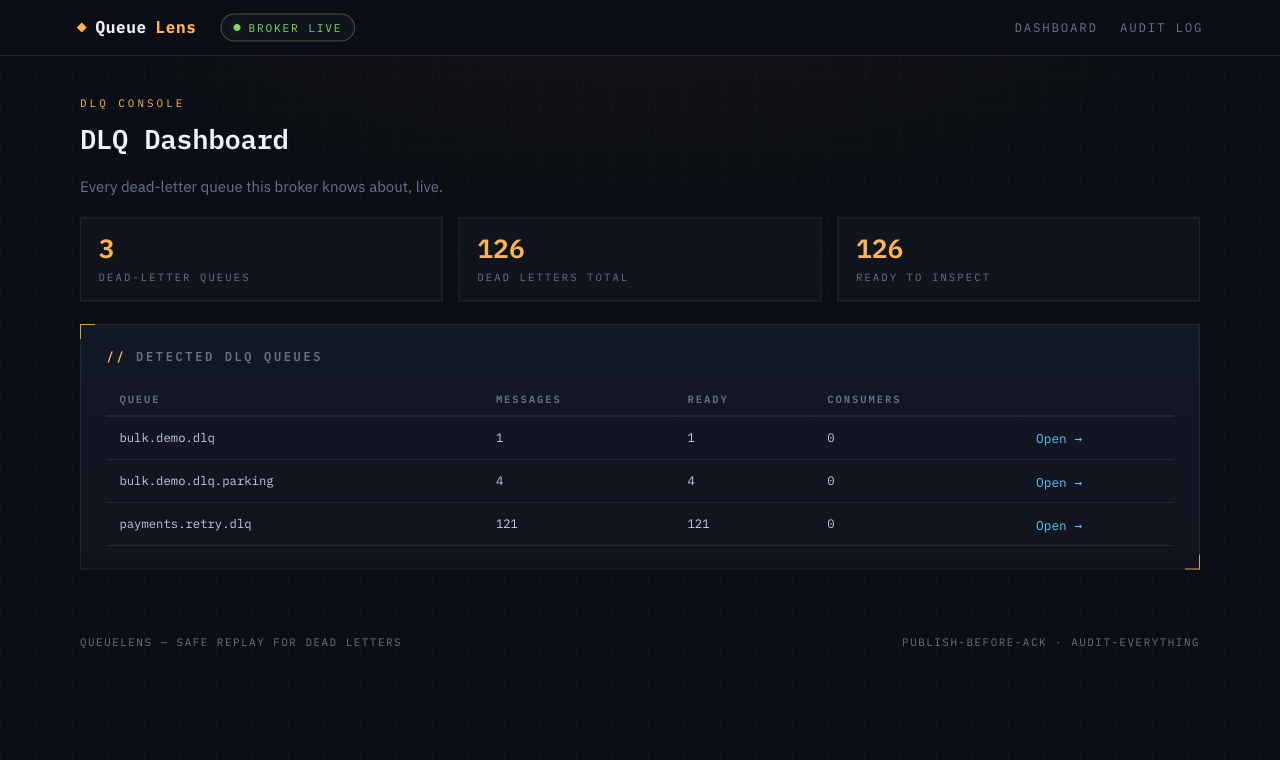
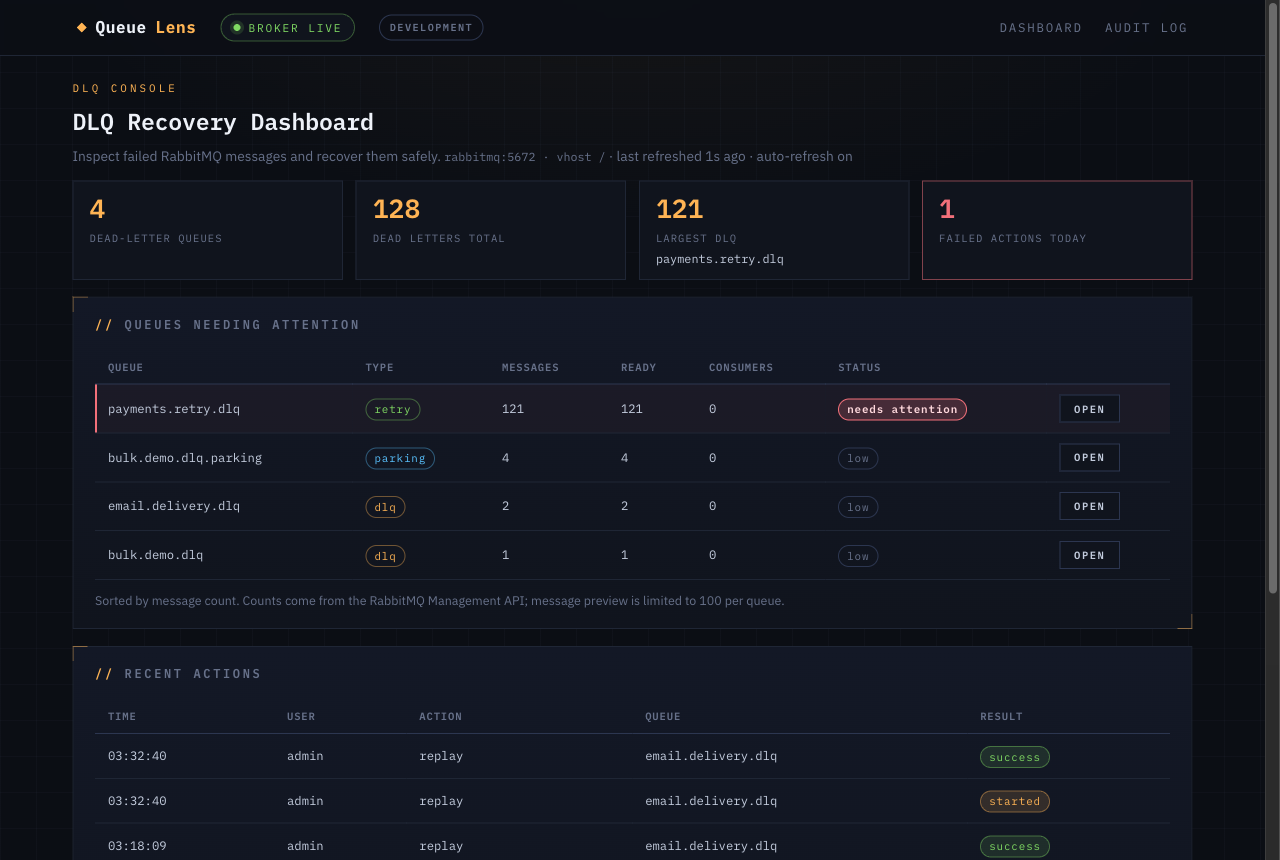
design: operational dashboard — risk-first, status-driven
The dashboard now answers an operator's first questions at a glance:

- Queues sorted by message count descending — the riskiest DLQ is row one
- Queue type badges (dlq / parking / retry) so parking lots and retry
  queues aren't mistaken for incident queues; parking-suffix queues are
  now also detected
- Severity column (needs attention / warning / low / empty) with a red
  rail on attention rows
- Stat cards reworked: Largest DLQ (name + count) and Failed Actions
  Today (red when nonzero) join queue/message totals
- Broker host + vhost, last-refreshed ticker, and 30s auto-refresh in
  the header; environment badge (LOCAL/STAGING/PRODUCTION, red for
  production) in the topbar on every page
- Recent Actions section surfaces the audit trail on the dashboard,
  resilient to an unavailable audit store
- Clear Open buttons plus fully clickable rows
- Safety microcopy on the message actions card; Retry button on error
  pages; richer empty state; preview-limit note under the table
- Density pass: tighter spacing, reduced letter-spacing, subtler corner
  brackets, quieter footer

Queue API dicts gain kind and severity fields; audit repository gains
a count(result, since) method.

diff --git a/app/web/static/styles.css b/app/web/static/styles.css
@@ -549,3 +549,69 @@ input::placeholder { color: var(--muted); }
   .card { animation: none; }
   .broker-status i { animation: none; }
 }
+
+/* ---------- operational density pass ---------- */
+
+.container { margin-top: 1.5rem; }
+.card { padding: 1.1rem 1.35rem; margin: 1.05rem 0; }
+.card::before, .card::after { opacity: 0.5; }
+h1 { font-size: 1.45rem; }
+.subtitle { margin: 0 0 0.4rem; font-size: 0.86rem; }
+.stats { margin: 0.9rem 0 0.1rem; gap: 0.8rem; }
+.stat { padding: 0.7rem 1rem; }
+.stat span { letter-spacing: 0.1em; }
+.stat i {
+  display: block;
+  font-style: normal;
+  font-family: var(--mono);
+  font-size: 0.74rem;
+  color: var(--text);
+  margin-top: 0.1rem;
+  word-break: break-all;
+}
+.stat-alert { border-color: rgba(242, 112, 122, 0.5); }
+.stat-alert b { color: var(--red); }
+th { letter-spacing: 0.08em; }
+.small { font-size: 0.78rem; margin: 0.7rem 0 0; }
+.plain-link { color: var(--cyan); text-decoration: none; }
+.plain-link:hover { text-decoration: underline; }
+
+/* environment badge */
+.env-badge {
+  font-family: var(--mono);
+  font-size: 0.64rem;
+  font-weight: 600;
+  letter-spacing: 0.14em;
+  padding: 0.24rem 0.6rem;
+  border-radius: 999px;
+  border: 1px solid var(--line-bright);
+  color: var(--muted);
+  white-space: nowrap;
+}
+.env-badge.env-production {
+  color: #ffd9dd;
+  background: rgba(242, 112, 122, 0.18);
+  border-color: var(--red);
+  box-shadow: 0 0 12px rgba(242, 112, 122, 0.25);
+}
+.env-badge.env-staging { color: var(--amber); border-color: rgba(255, 180, 84, 0.5); }
+
+/* queue type + severity badges */
+.badge.k-dlq { color: var(--amber); border-color: rgba(255, 180, 84, 0.4); }
+.badge.k-parking { color: var(--cyan); border-color: rgba(89, 194, 255, 0.4); }
+.badge.k-retry { color: var(--green); border-color: rgba(127, 217, 98, 0.4); }
+.badge.s-attention { color: #ffd9dd; background: rgba(242, 112, 122, 0.2); border-color: var(--red); font-weight: 600; }
+.badge.s-warning { color: var(--amber); background: var(--amber-soft); border-color: rgba(255, 180, 84, 0.45); }
+.badge.s-low { color: var(--muted); }
+.badge.s-empty { color: var(--muted); opacity: 0.7; }
+
+/* rows that navigate */
+tr[data-href] { cursor: pointer; }
+.button.row-open { padding: 0.3rem 0.85rem; font-size: 0.66rem; }
+tbody tr:hover .row-open { border-color: var(--amber); color: var(--amber); }
+
+/* attention rows glow */
+tbody tr:has(.s-attention) { background: rgba(242, 112, 122, 0.04); box-shadow: inset 2px 0 0 var(--red); }
+
+/* quieter footer */
+.footer { font-size: 0.6rem; opacity: 0.55; margin-bottom: 1.2rem; }

diff --git a/app/web/templates/dashboard.html b/app/web/templates/dashboard.html
@@ -2,20 +2,56 @@
 {% block title %}Dashboard · QueueLens{% endblock %}
 {% block content %}
 <p class="overline">DLQ Console</p>
-<h1>DLQ Dashboard</h1>
-<p class="muted">Every dead-letter queue this broker knows about, live.</p>
+<h1>DLQ Recovery Dashboard</h1>
+<p class="muted subtitle">Inspect failed RabbitMQ messages and recover them safely.
+  <span class="mono">{{ broker }}</span> ·
+  <span id="refresh-status">last refreshed just now</span> · auto-refresh on</p>
 {% if queues %}
 <div class="stats">
   <div class="stat"><b>{{ queues | length }}</b><span>Dead-letter queues</span></div>
   <div class="stat"><b>{{ queues | sum(attribute='messages') }}</b><span>Dead letters total</span></div>
-  <div class="stat"><b>{{ queues | sum(attribute='messages_ready') }}</b><span>Ready to inspect</span></div>
+  {% if largest and largest.messages > 0 %}
+  <div class="stat"><b>{{ largest.messages }}</b><span>Largest DLQ</span><i>{{ largest.name }}</i></div>
+  {% endif %}
+  <div class="stat {% if failed_today %}stat-alert{% endif %}"><b>{{ failed_today }}</b><span>Failed actions today</span></div>
 </div>
 {% endif %}
 <section class="card">
-  <h2>Detected DLQ queues</h2>
+  <h2>Queues needing attention</h2>
   {% if queues %}
-  <table><thead><tr><th>Queue</th><th>Messages</th><th>Ready</th><th>Consumers</th><th></th></tr></thead>
-  <tbody>{% for queue in queues %}<tr><td class="mono">{{ queue.name }}</td><td class="mono">{{ queue.messages }}</td><td class="mono">{{ queue.messages_ready }}</td><td class="mono">{{ queue.consumers }}</td><td><a href="/queues/{{ queue.name | urlencode }}">Open →</a></td></tr>{% endfor %}</tbody></table>
-  {% else %}<p class="empty">No DLQ queues detected.</p>{% endif %}
+  <table><thead><tr><th>Queue</th><th>Type</th><th>Messages</th><th>Ready</th><th>Consumers</th><th>Status</th><th></th></tr></thead>
+  <tbody>{% for queue in queues %}<tr data-href="/queues/{{ queue.name | urlencode }}"><td class="mono">{{ queue.name }}</td><td><span class="badge k-{{ queue.kind }}">{{ queue.kind }}</span></td><td class="mono">{{ queue.messages }}</td><td class="mono">{{ queue.messages_ready }}</td><td class="mono">{{ queue.consumers }}</td><td><span class="badge s-{{ queue.severity }}">{{ {'attention': 'needs attention', 'warning': 'warning', 'low': 'low', 'empty': 'empty'}[queue.severity] }}</span></td><td><a class="button row-open" href="/queues/{{ queue.name | urlencode }}">Open</a></td></tr>{% endfor %}</tbody></table>
+  <p class="muted small">Sorted by message count. Counts come from the RabbitMQ Management API;
+    message preview is limited to {{ preview_limit }} per queue.</p>
+  {% else %}
+  <div class="empty">
+    <p><strong>No DLQ queues detected.</strong></p>
+    <p>QueueLens is connected to RabbitMQ, but no dead-letter queues were found by name
+      convention or dead-letter bindings.</p>
+    <a class="button" href="">Refresh</a>
+  </div>
+  {% endif %}
 </section>
+{% if recent_events %}
+<section class="card">
+  <h2>Recent actions</h2>
+  <table><thead><tr><th>Time</th><th>User</th><th>Action</th><th>Queue</th><th>Result</th></tr></thead>
+  <tbody>{% for event in recent_events %}<tr><td class="mono">{{ event.timestamp[11:19] if event.timestamp else '—' }}</td><td class="mono">{{ event.username }}</td><td class="mono">{{ event.action }}</td><td class="mono">{{ event.source_queue or '—' }}</td><td><span class="badge b-{{ event.result }}">{{ event.result }}</span></td></tr>{% endfor %}</tbody></table>
+  <p class="muted small"><a href="/audit" class="plain-link">Full audit log →</a></p>
+</section>
+{% endif %}
+<script>
+const loadedAt = Date.now();
+setInterval(() => {
+  const seconds = Math.round((Date.now() - loadedAt) / 1000);
+  document.getElementById('refresh-status').textContent = 'last refreshed ' + seconds + 's ago';
+}, 1000);
+setTimeout(() => location.reload(), 30000);
+document.querySelectorAll('tr[data-href]').forEach(row => {
+  row.addEventListener('click', event => {
+    if (event.target.closest('a')) return;
+    location.href = row.dataset.href;
+  });
+});
+</script>
 {% endblock %}

diff --git a/app/web/templates/message.html b/app/web/templates/message.html
@@ -17,6 +17,8 @@
 <section class="card"><h2>x-death</h2><pre class="code-json">{{ message.x_death | tojson(indent=2) }}</pre></section>
 <section class="card">
   <h2>Actions</h2>
+  <p class="muted small">Move replay and park publish first — the source message is removed
+    only after the publish succeeds. Every action writes an audit event.</p>
   <fieldset class="replay-target">
     <legend>Replay target (leave blank to use the configured target)</legend>
     <label>Queue <input id="target-queue" placeholder="queue name"></label>

diff --git a/app/web/templates/base.html b/app/web/templates/base.html
@@ -11,6 +11,7 @@
   <header class="topbar">
     <a href="/" class="brand">Queue<em>Lens</em></a>
     <span class="broker-status" id="broker-status" data-state="unknown"><i></i><span>BROKER …</span></span>
+    <span class="env-badge env-{{ app_environment | default('development') | lower }}">{{ app_environment | default('development') | upper }}</span>
     <nav><a href="/">Dashboard</a><a href="/audit">Audit Log</a></nav>
   </header>
   <main class="container">{% block content %}{% endblock %}</main>

diff --git a/app/web/templates/error.html b/app/web/templates/error.html
@@ -6,5 +6,6 @@
   <p class="error-code">{{ status_code }}</p>
   <p>{{ detail }}</p>
   <a class="button primary" href="/">Back to dashboard</a>
+  <a class="button" href="">Retry</a>
 </section>
 {% endblock %}

diff --git a/app/web/routes.py b/app/web/routes.py
@@ -1,5 +1,7 @@
+from datetime import UTC, datetime
 from pathlib import Path
-from typing import cast
+from typing import Any, cast
+from urllib.parse import urlparse
 
 from fastapi import APIRouter, Depends, Request
 from fastapi.responses import HTMLResponse
@@ -14,6 +16,13 @@ router = APIRouter(tags=["web"])
 templates = Jinja2Templates(directory=str(Path(__file__).parent / "templates"))
 
 
+def _broker_display(rabbitmq_url: str, vhost: str) -> str:
+    parsed = urlparse(rabbitmq_url)  # never echo credentials from the URL
+    host = parsed.hostname or "rabbitmq"
+    port = f":{parsed.port}" if parsed.port else ""
+    return f"{host}{port} · vhost {vhost}"
+
+
 @router.get("/login", response_class=HTMLResponse)
 async def login(request: Request) -> HTMLResponse:
     return templates.TemplateResponse(request=request, name="login.html", context={})
@@ -24,11 +33,29 @@ async def dashboard(
     request: Request,
     _username: str = Depends(get_current_username),
 ) -> HTMLResponse:
+    settings = request.app.state.settings
     queues = await cast(QueueService, request.app.state.queue_service).list_queues(dlq_only=True)
+    queue_dicts = queues_to_dicts(queues)
+    recent_events: list[dict[str, Any]] = []
+    failed_today = 0
+    try:
+        audit = request.app.state.audit_repository
+        recent_events = await audit.list(limit=8)
+        midnight = datetime.now(UTC).replace(hour=0, minute=0, second=0, microsecond=0)
+        failed_today = await audit.count(result="failed", since=midnight)
+    except Exception:  # audit store unavailable must not take the dashboard down
+        pass
     return templates.TemplateResponse(
         request=request,
         name="dashboard.html",
-        context={"queues": queues_to_dicts(queues)},
+        context={
+            "queues": queue_dicts,
+            "largest": max(queue_dicts, key=lambda q: q["messages"], default=None),
+            "recent_events": recent_events,
+            "failed_today": failed_today,
+            "broker": _broker_display(settings.rabbitmq_url, settings.rabbitmq_vhost),
+            "preview_limit": settings.max_preview_messages,
+        },
     )
 
 

diff --git a/app/application/queue_service.py b/app/application/queue_service.py
@@ -15,6 +15,8 @@ class QueueService:
         queues = [self._to_queue_info(item, dead_letter_targets) for item in raw_queues]
         if dlq_only:
             queues = [queue for queue in queues if queue.is_dlq]
+        # riskiest first: the biggest backlog is where an operator starts
+        queues.sort(key=lambda queue: queue.messages, reverse=True)
         return queues
 
     async def get_queue(self, queue_name: str) -> QueueInfo:
@@ -45,6 +47,7 @@ class QueueService:
             durable=bool(raw.get("durable", False)),
             arguments=arguments,
             is_dlq=QueueService._looks_like_dlq(name, dead_letter_targets),
+            kind=QueueService._classify(name),
         )
 
     @staticmethod
@@ -54,7 +57,29 @@ class QueueService:
         # another queue dead-letters into.
         normalized_name = name.lower()
         name_match = any(token in normalized_name for token in (".dlq", "_dlq", "dead"))
-        return name_match or name in dead_letter_targets
+        parking = normalized_name.endswith((".parking", "_parking"))
+        return name_match or parking or name in dead_letter_targets
+
+    @staticmethod
+    def _classify(name: str) -> str:
+        """Operators treat these differently: a parking lot is deliberate
+        storage, a retry queue is in-flight recovery, a DLQ is the incident."""
+        normalized = name.lower()
+        if normalized.endswith((".parking", "_parking")):
+            return "parking"
+        if "retry" in normalized:
+            return "retry"
+        return "dlq"
+
+
+def _severity(messages: int) -> str:
+    if messages == 0:
+        return "empty"
+    if messages <= 10:
+        return "low"
+    if messages <= 100:
+        return "warning"
+    return "attention"
 
 
 def queues_to_dicts(queues: Sequence[QueueInfo]) -> list[dict[str, Any]]:
@@ -69,7 +94,8 @@ def queues_to_dicts(queues: Sequence[QueueInfo]) -> list[dict[str, Any]]:
             "durable": queue.durable,
             "arguments": queue.arguments,
             "is_dlq": queue.is_dlq,
+            "kind": queue.kind,
+            "severity": _severity(queue.messages),
         }
         for queue in queues
     ]
-

diff --git a/app/infrastructure/persistence/audit_repository.py b/app/infrastructure/persistence/audit_repository.py
@@ -1,4 +1,6 @@
-from sqlalchemy import desc, select
+from datetime import datetime
+
+from sqlalchemy import desc, func, select
 
 from app.domain.models import AuditEntry
 from app.infrastructure.persistence.database import Database
@@ -55,6 +57,15 @@ class AuditRepository:
         async with self._database.session() as session:
             rows = (await session.scalars(statement)).all()
         return [self._to_dict(row) for row in rows]
+
+    async def count(self, *, result: str, since: datetime) -> int:
+        statement = (
+            select(func.count())
+            .select_from(AuditEventModel)
+            .where(AuditEventModel.result == result, AuditEventModel.timestamp >= since)
+        )
+        async with self._database.session() as session:
+            return int(await session.scalar(statement) or 0)
 
     @staticmethod
     def _to_dict(model: AuditEventModel) -> dict[str, object]:

diff --git a/app/main.py b/app/main.py
@@ -94,6 +94,8 @@ def create_app(settings: Settings | None = None) -> FastAPI:
     management = RabbitMQManagementClient(app.state.settings)
     app.state.management_client = management
     app.state.queue_service = QueueService(management)
+    # base.html renders the environment badge on every page
+    web.templates.env.globals["app_environment"] = app.state.settings.environment
     _register_error_handlers(app)
     app.include_router(health.router)
     app.include_router(metrics.router)

diff --git a/app/domain/models.py b/app/domain/models.py
@@ -14,6 +14,7 @@ class QueueInfo:
     durable: bool
     arguments: dict[str, Any] = field(default_factory=dict)
     is_dlq: bool = False
+    kind: str = "dlq"  # dlq | parking | retry
 
 
 @dataclass(frozen=True, slots=True)